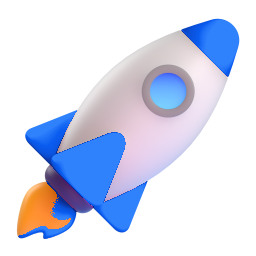
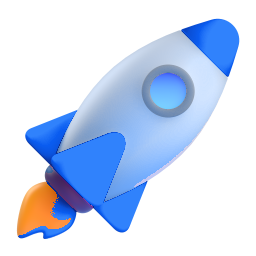
Ikon menu: bodi roket bergradasi biru tipis, Materi jadi ikon play (putih), kartu Game segera hadir dengan controller

Changed region(s): [[0.2188, 0.125, 0.875, 0.7812], [0.1562, 0.6562, 0.2188, 0.6875]]

diff --git a/app/umum/page.tsx b/app/umum/page.tsx
@@ -32,12 +32,12 @@ export default async function BerandaUmum() {
         // yang tertutup bukan soal langganan. Kodenya hanya membuka Try Out; sisanya lewat email.
         <>
           <KartuAplikasi nama="Misi" keterangan="Masuk dengan email" teks="Buka di alamat app dengan email dan passwordmu." href={hrefApp} terkunci ikon="rocket-biru" />
-          <KartuAplikasi nama="Materi" keterangan="Masuk dengan email" teks="Buka di alamat app dengan email dan passwordmu." href={hrefApp} terkunci ikon="video-game-bk" />
+          <KartuAplikasi nama="Materi" keterangan="Masuk dengan email" teks="Buka di alamat app dengan email dan passwordmu." href={hrefApp} terkunci ikon="play" />
         </>
       ) : (
         <>
           <KartuAplikasi nama="Misi" keterangan="Belum aktif" teks="Aktifkan langganan untuk membuka Misi." href="/umum/langganan" terkunci ikon="rocket-biru" />
-          <KartuAplikasi nama="Materi" keterangan="Belum aktif" teks="Aktifkan langganan untuk membuka Materi." href="/umum/langganan" terkunci ikon="video-game-bk" />
+          <KartuAplikasi nama="Materi" keterangan="Belum aktif" teks="Aktifkan langganan untuk membuka Materi." href="/umum/langganan" terkunci ikon="play" />
         </>
       )}
       <KartuAplikasi nama="Try Out" teks="Uji kemampuanmu lewat try out TKA." href="/umum/tryout" ikon="trophy-bk" />

diff --git a/app/siswa/[studentId]/page.tsx b/app/siswa/[studentId]/page.tsx
@@ -45,8 +45,9 @@ export default async function BerandaSiswa({ params }: { params: Promise<{ stude
       <div className="space-y-3">
         <KartuAplikasi nama="Latihan Soal" teks="Soal per topik dengan pembahasan." href={`/belajar${q}`} satuBaris ikon="memo-bk" />
         <KartuAplikasi nama="Misi" teks="Naik level, kumpulkan bintangnya." href={`/siswa/${studentId}/misi`} satuBaris ikon="rocket-biru" />
-        <KartuAplikasi nama="Materi" teks="Belajar konsep secara interaktif." href={`/siswa/${studentId}/materi`} satuBaris ikon="video-game-bk" />
+        <KartuAplikasi nama="Materi" teks="Belajar konsep secara interaktif." href={`/siswa/${studentId}/materi`} satuBaris ikon="play" />
         <KartuAplikasi nama="Try Out" keterangan={tryOut?.label} teks={tryOut?.teks ?? 'Uji kemampuanmu lewat try out TKA.'} satuBaris href={hrefTryOut} ikon="trophy-bk" />
+        <KartuAplikasi nama="Game" keterangan="Segera hadir" teks="Belajar sambil bermain." href={null} terkunci satuBaris ikon="video-game-bk" />
       </div>
     </div>
   )

diff --git a/app/pratinjau-ikon/page.tsx b/app/pratinjau-ikon/page.tsx
@@ -11,12 +11,12 @@ const OPSI: { judul: string; catatan: string; ikon: [NamaIkon3D, NamaIkon3D, Nam
   {
     judul: 'Opsi 1 — Warna asli',
     catatan: 'Ikon Fluent Emoji apa adanya: memo oranye, roket merah muda, controller ungu, piala emas.',
-    ikon: ['memo', 'rocket', 'video-game', 'trophy'],
+    ikon: ['memo', 'rocket', 'play', 'trophy'],
   },
   {
     judul: 'Opsi 2 — Custom biru + kuning',
     catatan: 'Memo, controller, dan piala diwarnai ke satu tangga biru dan kuning. Roket tetap asli, hanya merahnya jadi biru.',
-    ikon: ['memo-bk', 'rocket-biru', 'video-game-bk', 'trophy-bk'],
+    ikon: ['memo-bk', 'rocket-biru', 'play', 'trophy-bk'],
   },
 ]
 

diff --git a/components/ui/Ikon3D.tsx b/components/ui/Ikon3D.tsx
@@ -19,6 +19,7 @@ export type NamaIkon3D =
   | 'rocket'
   | 'rocket-biru'
   | 'video-game'
+  | 'play'
   | 'trophy'
   | 'abacus'
   | 'open-book'
@@ -71,7 +72,7 @@ export default function Ikon3D({
 }) {
   return (
     <Image
-      src={`/ikon/${nama}.png`}
+      src={`/ikon/${nama}.${nama === 'play' ? 'svg' : 'png'}`}
       alt=""
       width={ukuran}
       height={ukuran}

diff --git a/app/mandiri/page.tsx b/app/mandiri/page.tsx
@@ -59,7 +59,7 @@ export default async function BerandaMandiri() {
         }
         href={produk.sora ? '/mandiri/materi' : '/mandiri/langganan'}
         terkunci={!produk.sora}
-        ikon="video-game-bk"
+        ikon="play"
       />
 
       {/* Try Out: terbuka untuk semua akun, berlangganan atau tidak. Pintu bagi

diff --git a/scripts/warnai-ikon.py b/scripts/warnai-ikon.py
@@ -98,7 +98,18 @@ def merah_ke_biru(src, dst):
             if a == 0:
                 continue
             h, s, v = colorsys.rgb_to_hsv(r / 255, g / 255, b / 255)
-            if s < 0.24 or not (h < 25 / 360 or h > 296 / 360):
+            rosa = h < 25 / 360 or h > 296 / 360
+            ungu_pucat = h > 240 / 360 and s < 0.24
+            if not (rosa or ungu_pucat):
+                continue
+            if s < 0.24:
+                # Semburat merah muda tipis di bodi putih -> biru muda tipis (bayangan bodi tetap terbaca).
+                # Transisi halus (bukan ambang tajam) supaya tidak berbercak: dasar tipis + naik mengikuti kejenuhan.
+                u = max(0.0, min(1.0, (s - 0.02) / 0.18))
+                w = 0.22 + 0.63 * (u * u * (3 - 2 * u))
+                muda = tangga(BIRU, 0.9)
+                dasar = tuple(255 + (muda[i] - 255) * w for i in range(3))
+                px[x, y] = tuple(round(c * min(1.0, v + 0.05)) for c in dasar) + (a,)
                 continue
             warna = tangga(BIRU, bentang(v, lo, hi))
             sn = min(1.0, s / 0.35) ** 0.7

diff --git a/docs/desain-siswa.md b/docs/desain-siswa.md
@@ -48,7 +48,7 @@ belakangnya. Tanpa maskot untuk saat ini. Pengecualian: bilah bawah memakai ikon
 dua nada Phosphor Icons (MIT; bukan 3D, bukan garis).
 
 **Palet ikon menu: biru + emas** (+ putih). Menu beranda memakai Memo (Latihan
-Soal), Rocket (Misi, warna asli; hanya bagian merahnya diganti biru), Controller game (Materi — interaktif, bukan buku), Trophy (Try Out) — jangan menambah ikon
+Soal), Rocket (Misi, warna asli; hanya bagian merahnya diganti biru), Play (Materi — ikon digambar sendiri, piringan putih + segitiga biru), Trophy (Try Out). Controller game dicadangkan untuk fitur Game (kartu "Segera hadir") — jangan menambah ikon
 menu berwarna lain. Ikon mapel boleh berwarna menurut mapelnya. Ikon garis (lucide) hanya untuk panah
 dan kendali kecil.
 
